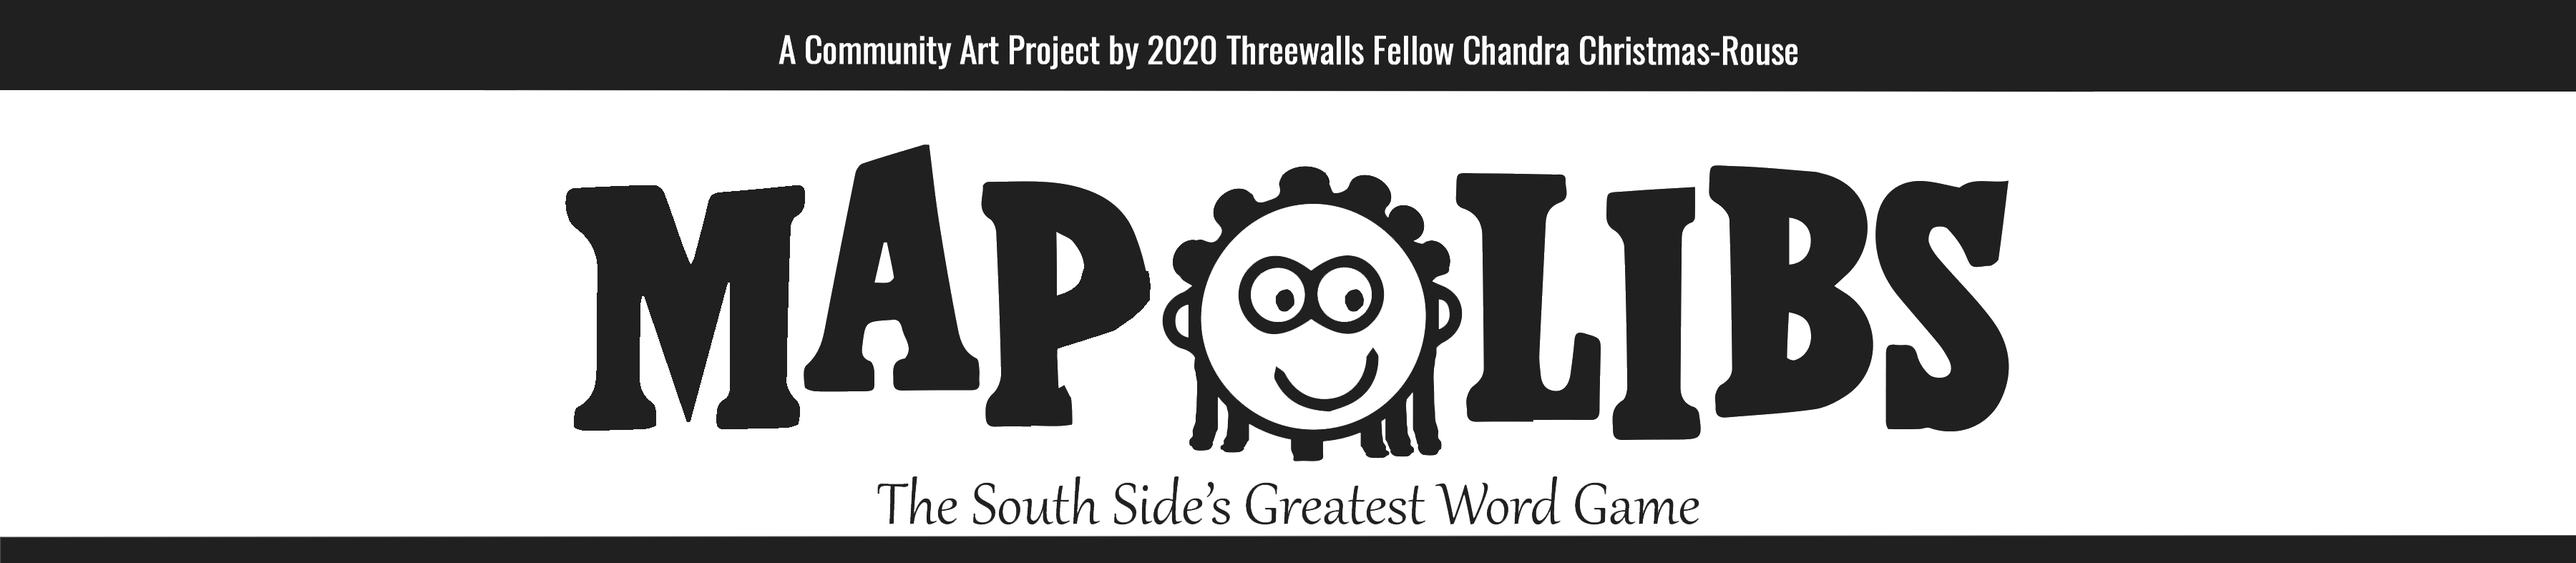
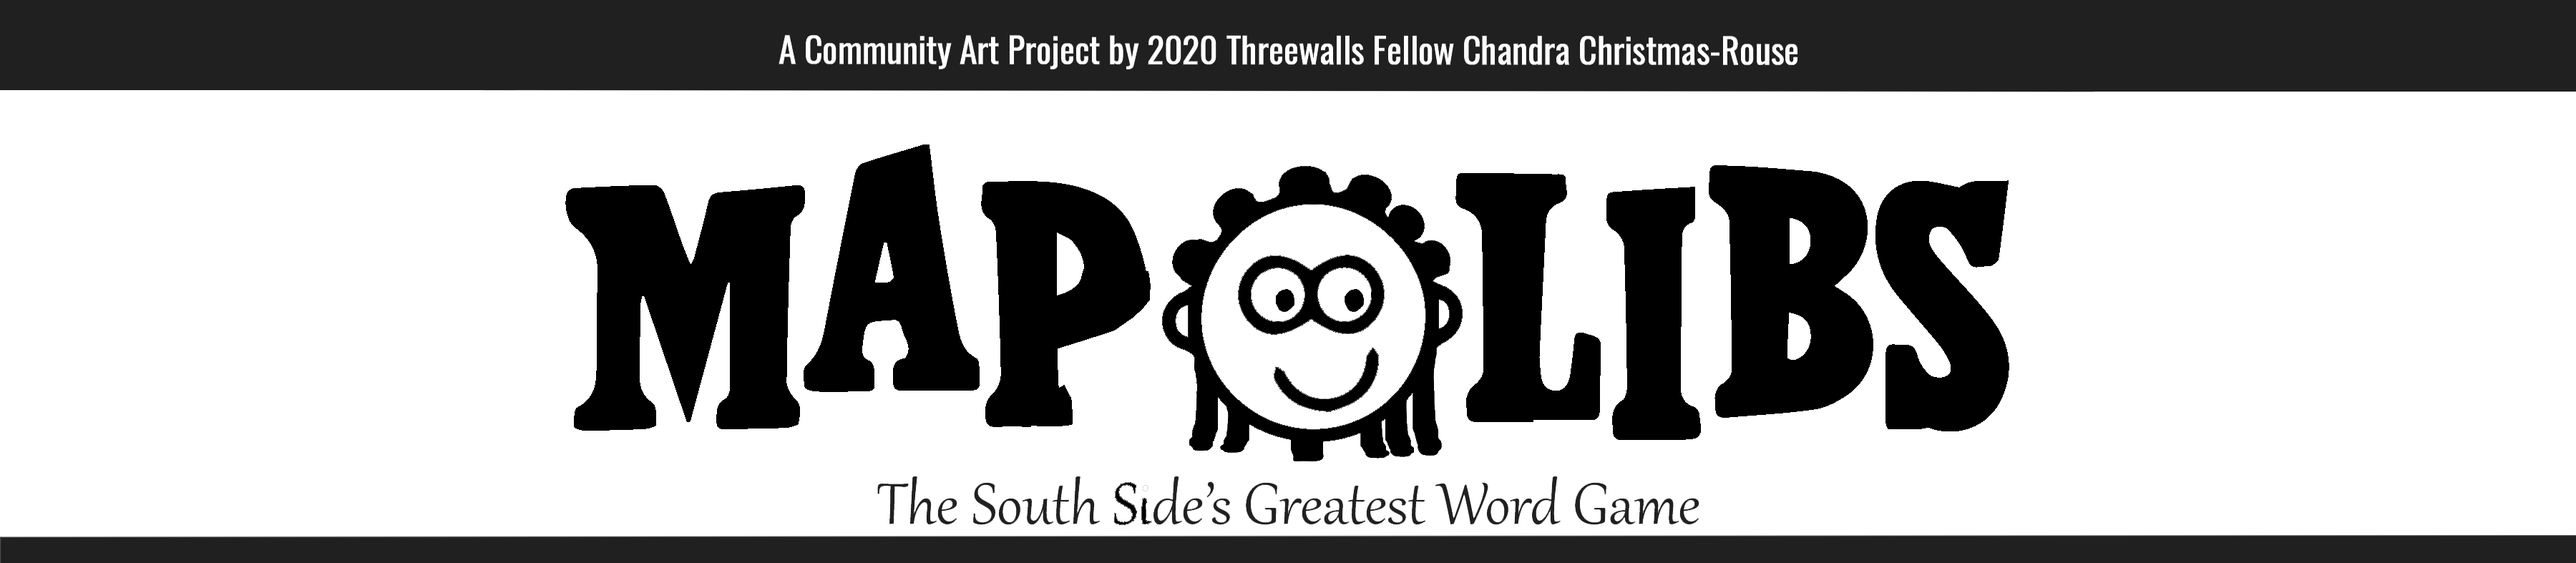
did home page changes and started hoverr

Changed region(s): [[0.2178, 0.244, 0.7778, 0.8234], [0.4356, 0.8844, 0.4667, 0.9149]]

diff --git a/public/js/app.js b/public/js/app.js
@@ -7,6 +7,8 @@ let object = document.getElementById("object");
 let name = document.getElementById("name");
 let email = document.getElementById("email");
 
+let reload = document.getElementById("reload");
+
 let nvalues = ["Bushwick", "Bronzeville", "Aurora"];
 let pvalues = ["Maria Hernandez", "Sip & Savor", "Mandrake Park"];
 let svalues = ["pigeons", "Kids playing", "conversations over coffee"];
@@ -62,11 +64,14 @@ window.addEventListener("load", () => {
   });
 });
 
+let instructions = document.getElementById("instructions");
 let maplibsdoc = document.getElementById("maplibspdf");
 let bronzeville = document.getElementById("bronzeville");
 let navbar = document.getElementById("nav");
+let about = document.getElementById("about");
 let mainbody = document.getElementById("mainbody");
 
+let currentH, fullH;
 //change transparency based on scroll value
 //mapLib pdf goes to 0
 //home page of bronzeville goes to 100
@@ -75,12 +80,12 @@ window.addEventListener("scroll", function () {
   var lastScrollTop = 0;
 
   let currentY2 = window.scrollY;
-  let scrollFromTop = window.pageYOffset;
+  // let scrollFromTop = window.pageYOffset;
 
-  let totalHeight = window.innerHeight;
+  let totalHeight = 1000;
 
-  let currentH = Math.round(100 - (currentY2 / totalHeight) * 100) + "%";
-  let fullH = Math.round((currentY2 / totalHeight) * 100) + "%";
+  currentH = Math.round(100 - (currentY2 / totalHeight) * 100) + "%";
+  fullH = Math.round((currentY2 / totalHeight) * 100) + "%";
 
   if (currentY2 > 0 && lastScrollTop <= currentY2) {
     lastScrollTop = currentY2;
@@ -94,15 +99,13 @@ window.addEventListener("scroll", function () {
   maplibsdoc.style.opacity = currentH;
 
   if (currentY2 > 900) {
-    // bronzeville.style.opacity = fullH;
-    navbar.style.opacity = fullH;
+    // navbar.style.opacity = fullH;
     mainbody.style.opacity = fullH;
-    navbar.style.zIndex = 1;
     mainbody.style.zIndex = 1;
   } else {
-    navbar.style.opacity = 0;
+    // navbar.style.opacity = 0;
     mainbody.style.opacity = 0;
-    navbar.style.zIndex = 0;
+
     mainbody.style.zIndex = 0;
   }
 
@@ -120,6 +123,7 @@ window.addEventListener("scroll", function () {
   // }
 
   if (currentY2 > 200 && currentY2 < 300) {
+    instructions.innerHTML = "Here's What Your Neighbor Said";
     neighborhood.value = nvalues[0];
     place.value = pvalues[0];
     sound.value = svalues[0];
@@ -127,13 +131,15 @@ window.addEventListener("scroll", function () {
     event.value = evalues[0];
     object.value = ovalues[0];
   } else if (currentY2 > 300 && currentY2 < 400) {
+    instructions.innerHTML = "Here's What Your Neighbor Said";
     neighborhood.value = nvalues[1];
     place.value = pvalues[1];
     sound.value = svalues[1];
     smell.value = smvalues[1];
     event.value = evalues[1];
     object.value = ovalues[1];
-  } else if (currentY2 > 400 && currentY2 < 600) {
+  } else if (currentY2 > 400) {
+    instructions.innerHTML = "Here's What Your Neighbor Said";
     neighborhood.value = nvalues[2];
     place.value = pvalues[2];
     sound.value = svalues[2];
@@ -141,6 +147,7 @@ window.addEventListener("scroll", function () {
     event.value = evalues[2];
     object.value = ovalues[2];
   } else {
+    instructions.innerHTML = "FILL IN THE BLANKS";
     neighborhood.value = "A NEIGHBORHOOD";
     place.value = "A PLACE";
     sound.value = "A SOUND";
@@ -148,4 +155,14 @@ window.addEventListener("scroll", function () {
     event.value = "AN EVENT";
     object.value = "AN OBJECT";
   }
+});
+
+document.getElementById("reload").addEventListener("click", () => {
+  console.log("hi");
+  maplibsdoc.style.opacity = fullH;
+  mainbody.style.opacity = 0;
+
+  mainbody.style.zIndex = 0;
+  document.body.scrollTop = 0;
+  document.documentElement.scrollTop = 0;
 });

diff --git a/public/js/testfull.js b/public/js/testfull.js
@@ -2,10 +2,13 @@
 let video = document.getElementById("video");
 let audio = document.getElementById("audio");
 let source = document.createElement("source");
+//lefthand person's thing
 let text = document.getElementById("description");
+let fullML = document.getElementById("full_des");
 let addtext = document.createElement("p");
 let credit = document.getElementById("credit");
 let addcredit = document.createElement("p");
+//the actual name of place/sound/object
 let description = document.getElementById("sentence");
 let adddes = document.createElement("p");
 let isMuted;
@@ -93,6 +96,12 @@ window.addEventListener("load", () => {
   addcredit.innerHTML = newsources[randomNumber].credit;
   credit.appendChild(addcredit);
 
+  text.addEventListener("mouseover", () => {
+    console.log("hello");
+    fullML.style.zIndex = 9;
+    fullML.style.opacity = 1;
+  });
+
   let stringSource = JSON.stringify(source.src);
   // console.log(stringSource.includes("wav"));
 
@@ -103,7 +112,51 @@ window.addEventListener("load", () => {
     // renderer.setSize(window.innerWidth, window.innerHeight);
   }
 
-  // let cloudScript = document.querySelector('script[src*="js/cloud.js"]');
+  dragElement(document.getElementById("full_des"));
+
+  function dragElement(elmnt) {
+    var pos1 = 0,
+      pos2 = 0,
+      pos3 = 0,
+      pos4 = 0;
+    if (document.getElementById(elmnt.id + "header")) {
+      /* if present, the header is where you move the DIV from:*/
+      document.getElementById(elmnt.id + "header").onmousedown = dragMouseDown;
+    } else {
+      /* otherwise, move the DIV from anywhere inside the DIV:*/
+      elmnt.onmousedown = dragMouseDown;
+    }
+
+    function dragMouseDown(e) {
+      e = e || window.event;
+      e.preventDefault();
+      // get the mouse cursor position at startup:
+      pos3 = e.clientX;
+      pos4 = e.clientY;
+      document.onmouseup = closeDragElement;
+      // call a function whenever the cursor moves:
+      document.onmousemove = elementDrag;
+    }
+
+    function elementDrag(e) {
+      e = e || window.event;
+      e.preventDefault();
+      // calculate the new cursor position:
+      pos1 = pos3 - e.clientX;
+      pos2 = pos4 - e.clientY;
+      pos3 = e.clientX;
+      pos4 = e.clientY;
+      // set the element's new position:
+      elmnt.style.top = elmnt.offsetTop - pos2 + "px";
+      elmnt.style.left = elmnt.offsetLeft - pos1 + "px";
+    }
+
+    function closeDragElement() {
+      /* stop moving when mouse button is released:*/
+      document.onmouseup = null;
+      document.onmousemove = null;
+    }
+  }
 });
 
 let reloadButton = document.getElementById("random-button");

diff --git a/public/css/cloudstyle.css b/public/css/cloudstyle.css
@@ -8,7 +8,7 @@ canvas {
 }
 
 html {
-  height: 1000px;
+  height: 2000px;
 }
 
 body {
@@ -39,7 +39,7 @@ body {
   z-index: 1;
   width: 100%;
   height: 100%;
-  background: rgba(255, 255, 255, 0.6);
+  background: rgba(255, 255, 255, 0.5);
 }
 
 .header {
@@ -106,9 +106,9 @@ a {
 }
 
 /* now is where thee rest of the page's css comes in */
-.nav {
+/* .nav {
   z-index: 0;
-  margin-top: 3em;
+  margin-top: 20em;
   opacity: 0;
 }
 
@@ -116,7 +116,7 @@ a {
   margin-left: 3em;
   font-size: 18px;
   color: white;
-}
+} */
 
 .header-image {
   position: fixed;
@@ -131,7 +131,7 @@ a {
   z-index: 0;
   position: fixed;
   bottom: 25%;
-  margin-left: 31%;
+  margin-left: 32%;
   opacity: 0;
 }
 
@@ -170,18 +170,39 @@ a {
   margin-top: 30%;
 }
 
+.bottom_nav {
+  background-color: rgba(255, 252, 255, 0.5);
+  border-top: 4px double rgb(23, 80, 172);
+  overflow: hidden;
+  position: fixed;
+  bottom: 0;
+  width: 100%;
+  height: 5%;
+  padding-top: 8px;
+}
+
+.bottom_nav a {
+  text-decoration: none;
+  font-size: 24px;
+  color: rgb(23, 80, 172, 0.7);
+  z-index: 2;
+  margin-left: 47%;
+  /* left: 50%; */
+  /* transform: translate(50%, 0); */
+}
+
 ::placeholder {
   color: white;
 }
 
-#email-submit {
+#reload {
   border-radius: 15px;
   font-family: "Cormorant", serif;
   font-size: 20px;
   padding: 15px 20px;
 }
 
-#email-submit:hover {
+#reload:hover {
   background-color: rgba(255, 255, 255, 0.5);
   color: rgba(0, 0, 0, 0.5);
   cursor: pointer;
@@ -194,7 +215,7 @@ a {
 
   .nav a {
     top: 10em;
-    margin-left: 45%;
+    margin-left: 40%;
     font-size: 40px;
     color: white;
   }
@@ -205,11 +226,11 @@ a {
   }
 
   .button {
-    margin-top: 6em;
+    margin-top: 10%;
   }
 
   #random-button {
-    margin-left: -7%;
+    margin-left: -8%;
     font-size: 30px;
     padding: 20px;
     width: 80%;
@@ -221,9 +242,9 @@ a {
     row-gap: 40px;
   }
 
-  #email-submit {
-    margin-top: 1em;
-    margin-left: 10%;
+  #reload {
+    margin-top: 5%;
+    margin-left: 8%;
     font-size: 30px;
   }
 }

diff --git a/public/index.html b/public/index.html
@@ -27,10 +27,12 @@
   <body>
     <div class="maplibspdf" id="maplibspdf">
       <div class="header">
-        <img class="top-image" src="Images/flyer_headerT.png" />
+        <a id="top">
+          <img class="top-image" src="Images/flyer_headerT3.png"
+        /></a>
       </div>
       <div>
-        <p class="fill-in">FILL IN THE BLANKS!</p>
+        <p id="instructions" class="fill-in">FILL IN THE BLANKS!</p>
       </div>
       <div class="text">
         <p class="description" id="description">
@@ -111,13 +113,13 @@
 
     <div id="bronzeville">
       <div class="nav" id="nav">
-        <a href="about.html">about</a>
         <!-- <div class="header-image">
           <img src="Images/maplibs.png" />
         </div> -->
       </div>
 
       <div class="main-body" id="mainbody">
+        <!-- <a id="about" href="about.html">about</a> -->
         <div class="header-image">
           <img src="Images/maplibs.png" />
         </div>
@@ -130,15 +132,18 @@
         </div>
 
         <div class="footer">
-          <a target="_blank" href="maplibs.html">
+          <a id="reload_button">
             <input
               type="submit"
               value="Play MapLibs"
               class="color-inputs"
-              id="email-submit"
+              id="reload"
             />
           </a>
         </div>
+      </div>
+      <div class="bottom_nav">
+        <a id="about" href="about.html">about</a>
       </div>
     </div>
 

diff --git a/public/css/testfull.css b/public/css/testfull.css
@@ -142,6 +142,18 @@ body {
   padding: 0px;
 }
 
+#full_des {
+  position: absolute;
+  z-index: 1;
+  background-color: rgb(255, 255, 255, 0.3);
+  border: 1px solid #ffffff;
+  left: 10px;
+  top: 15%;
+  width: 20%;
+  height: 30%;
+  opacity: 0;
+}
+
 @media all and (max-width: 700px) {
   .header-image img {
     width: 40%;

diff --git a/public/testfull.html b/public/testfull.html
@@ -13,6 +13,7 @@
   <body>
     <div class="nav">
       <div id="description" class="text"></div>
+      <div id="full_des"></div>
       <div class="header-image">
         <a href="index.html">
           <img src="Images/maplibs.png" />
